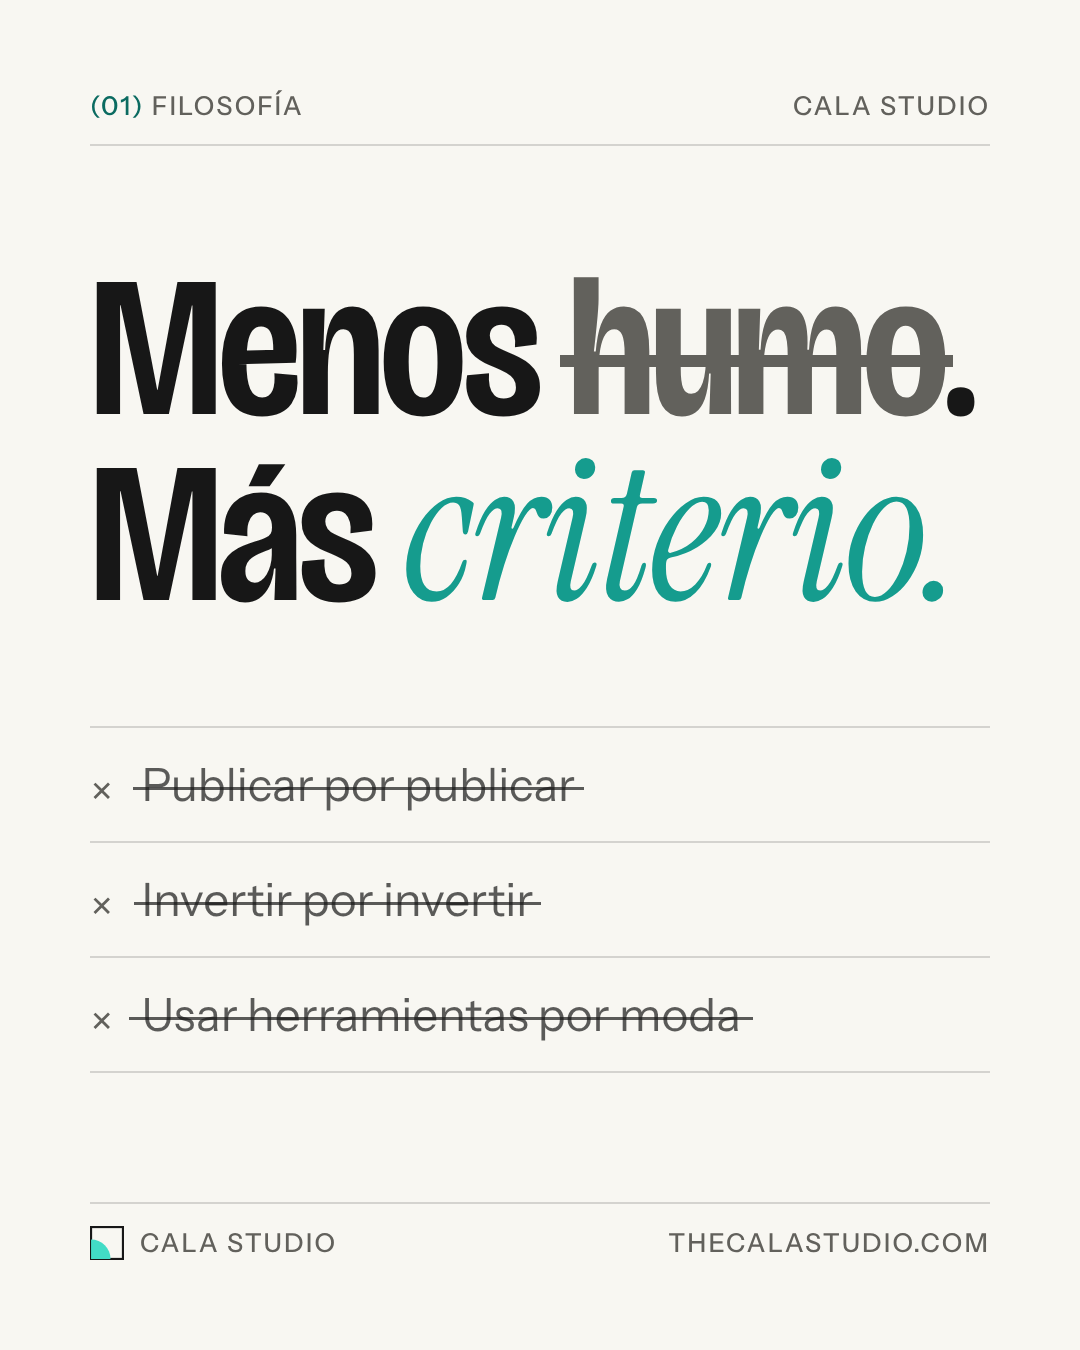
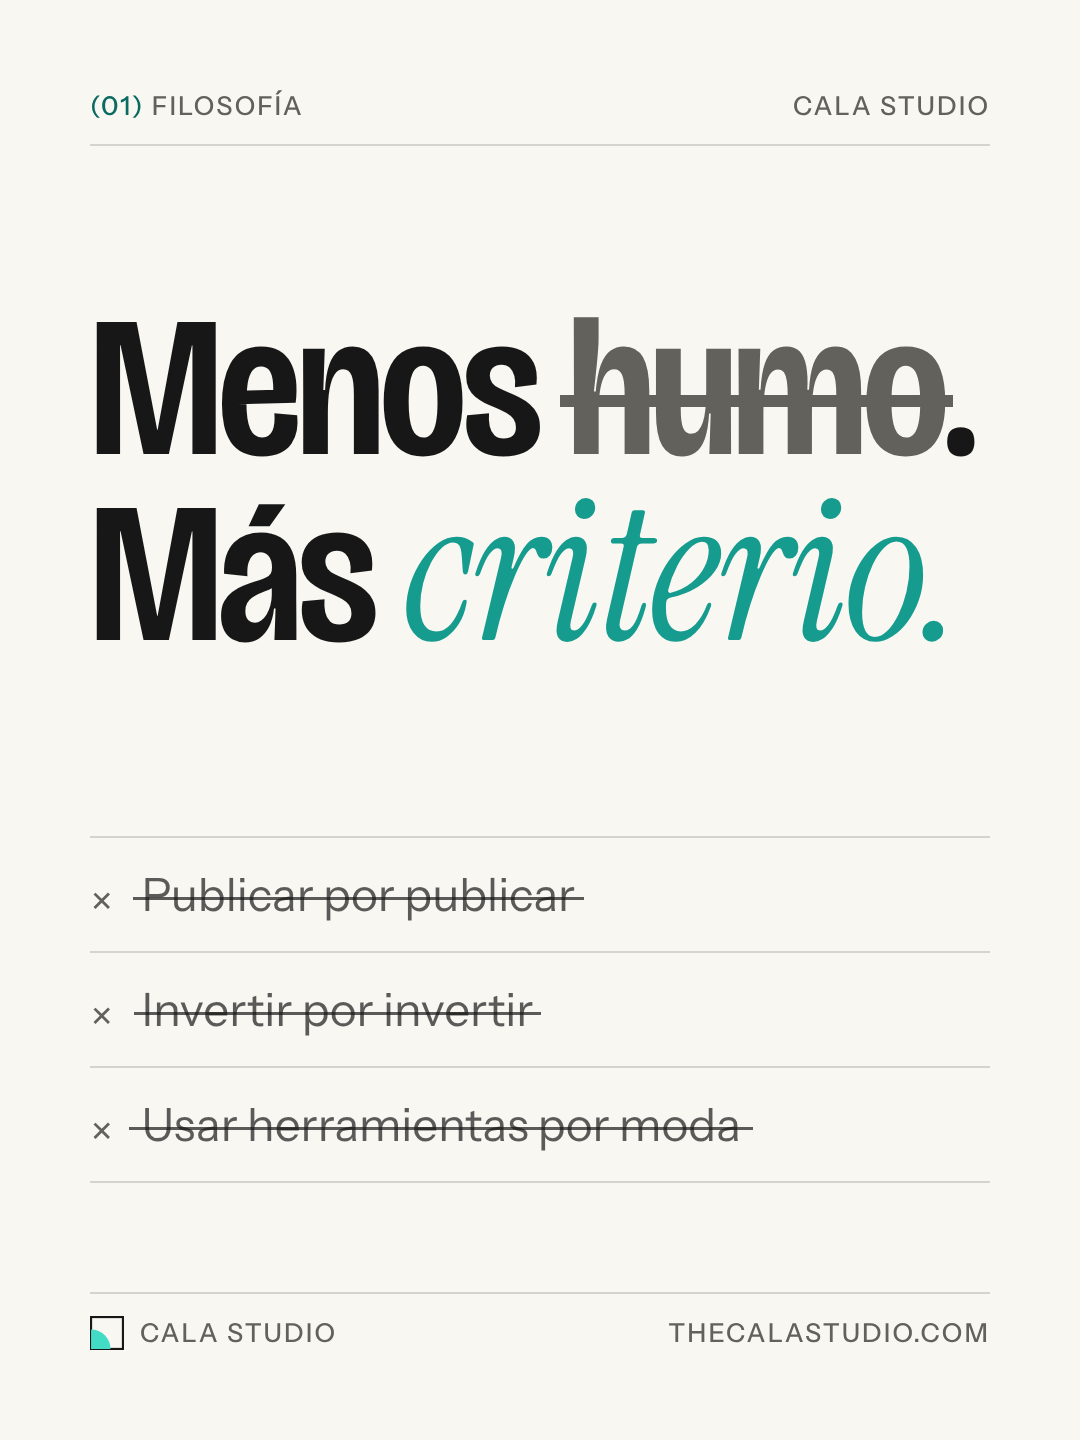
Instagram: publicaciones en 3:4 (1080x1440) para la cuadrícula del perfil
Claude-Session: https://claude.ai/code/session_01Jo41Pa8n6ushAX2ss8E4F4

diff --git a/marca/instagram/LEEME.md b/marca/instagram/LEEME.md
@@ -54,7 +54,8 @@ para que en el perfil queden así:
 [4 Método]               [5 Diferencia]   [6 Contacto]
 ```
 
-Formato 4:5 (1080×1350). Al subirlas, elige el recorte **original**, no el cuadrado.
+Formato **3:4 (1080×1440)**, el que usa ahora la cuadrícula del perfil: se ven enteras, sin recortes.
+Al subirlas, pulsa el icono de recorte y elige **original** (no el cuadrado).
 
 ### Post 6 · `post-6-contacto.png` (se publica primero)
 
